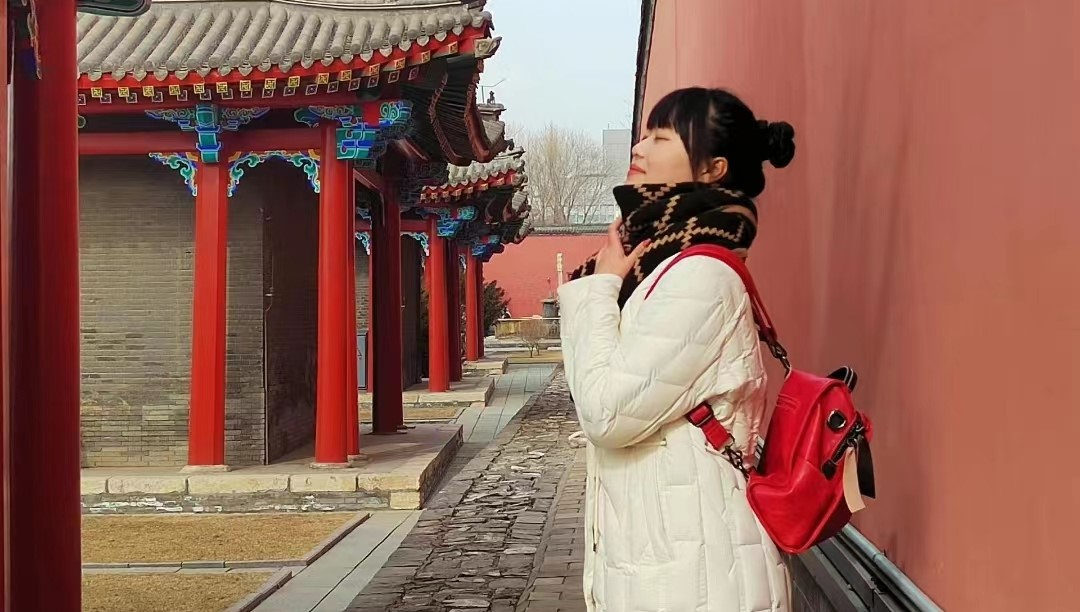
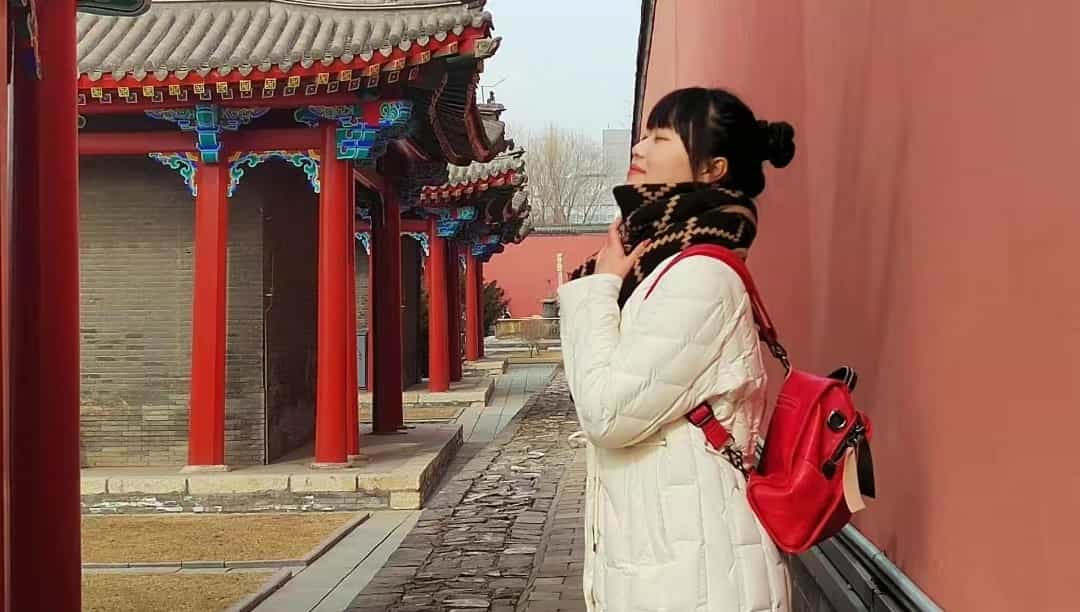
wpw

diff --git a/happybirthday/html/Memories.html b/happybirthday/html/Memories.html
@@ -46,7 +46,7 @@
 
           </div>
           <div class="ly-imgbox11" style="height:80%">
-            <img class="ly-img11" src="../img/2.png" style="height:100%">
+            <img class="ly-img11" src="../img/2.jpg" style="height:100%">
           </div>
         </div>
         <div class="ly-triangle11"></div>
@@ -178,7 +178,7 @@
 
           </div>
           <div class="ly-imgbox81" style="height:40%">
-            <img class="ly-img81" src="../img/3.png">
+            <img class="ly-img81" src="../img/3.jpg">
           </div>
         </div>
         <div class="ly-triangle11"></div>
